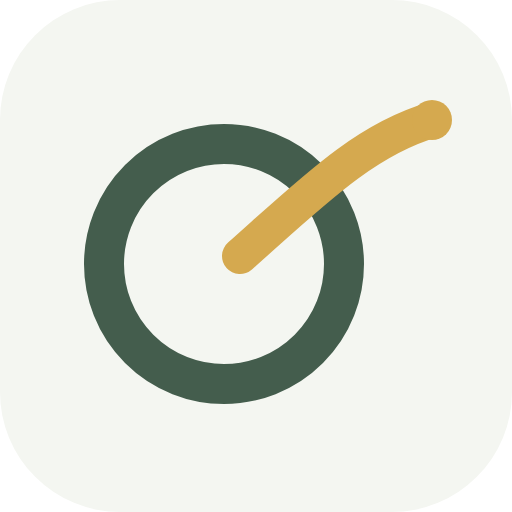
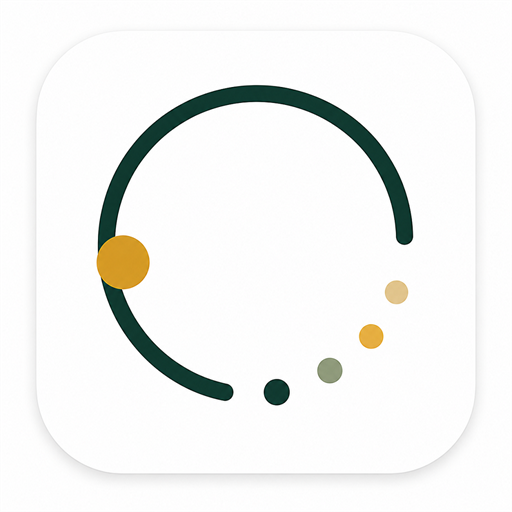
Unify brand symbol assets

Changed region(s): [[0.1562, 0.1562, 0.9062, 0.8125], [0.75, 0.5312, 0.8125, 0.5938]]

diff --git a/css/styles.css b/css/styles.css
@@ -179,23 +179,12 @@ a {
 }
 
 .brand-mark {
-  width: 18px;
-  height: 18px;
-  border: 2px solid var(--moss);
-  border-radius: 50%;
-  position: relative;
-}
-
-.brand-mark::after {
-  content: "";
-  position: absolute;
-  width: 18px;
-  height: 2px;
-  left: 8px;
-  top: 7px;
-  background: var(--sun);
-  transform: rotate(-26deg);
-  transform-origin: left center;
+  width: 26px;
+  height: 26px;
+  display: block;
+  border-radius: 7px;
+  object-fit: cover;
+  box-shadow: 0 6px 18px rgba(45, 55, 47, 0.1);
 }
 
 .nav {

diff --git a/index.html b/index.html
@@ -34,7 +34,7 @@
     <meta property="og:image:type" content="image/png" />
     <meta property="og:image:width" content="1200" />
     <meta property="og:image:height" content="630" />
-    <meta property="og:image:alt" content="NoveraFlow main icon on a quiet flowing background" />
+    <meta property="og:image:alt" content="NoveraFlow main symbol with a quiet flowing background" />
     <meta property="og:locale" content="en_US" />
     <meta property="og:locale:alternate" content="ko_KR" />
     <meta name="twitter:card" content="summary_large_image" />
@@ -44,8 +44,8 @@
       content="A gentle journaling space for short records, reflection, symbols, and living patterns."
     />
     <meta name="twitter:image" content="https://noveraflow.com/assets/og-image.png" />
-    <meta name="twitter:image:alt" content="NoveraFlow main icon on a quiet flowing background" />
-    <link rel="icon" href="/assets/noveraflow-icon.svg" type="image/svg+xml" />
+    <meta name="twitter:image:alt" content="NoveraFlow main symbol with a quiet flowing background" />
+    <link rel="icon" href="/assets/favicon-32.png" sizes="32x32" type="image/png" />
     <link rel="apple-touch-icon" href="/assets/noveraflow-icon-512.png" />
     <link rel="manifest" href="/site.webmanifest" />
     <link rel="preconnect" href="https://fonts.googleapis.com" />
@@ -67,7 +67,7 @@
           "@type": "Organization",
           "name": "NoveraFlow",
           "url": "https://noveraflow.com/",
-          "logo": "https://noveraflow.com/assets/noveraflow-icon.svg"
+          "logo": "https://noveraflow.com/assets/noveraflow-icon-1024.png"
         }
       }
     </script>
@@ -80,7 +80,7 @@
     </div>
     <header class="site-header" data-header>
       <a class="brand" href="#top" aria-label="NoveraFlow home" data-i18n-aria-label="brand.home">
-        <span class="brand-mark" aria-hidden="true"></span>
+        <img class="brand-mark" src="/assets/noveraflow-icon-1024.png" alt="" aria-hidden="true" />
         <span>NoveraFlow</span>
       </a>
       <nav class="nav" aria-label="Primary navigation" data-i18n-aria-label="nav.label">